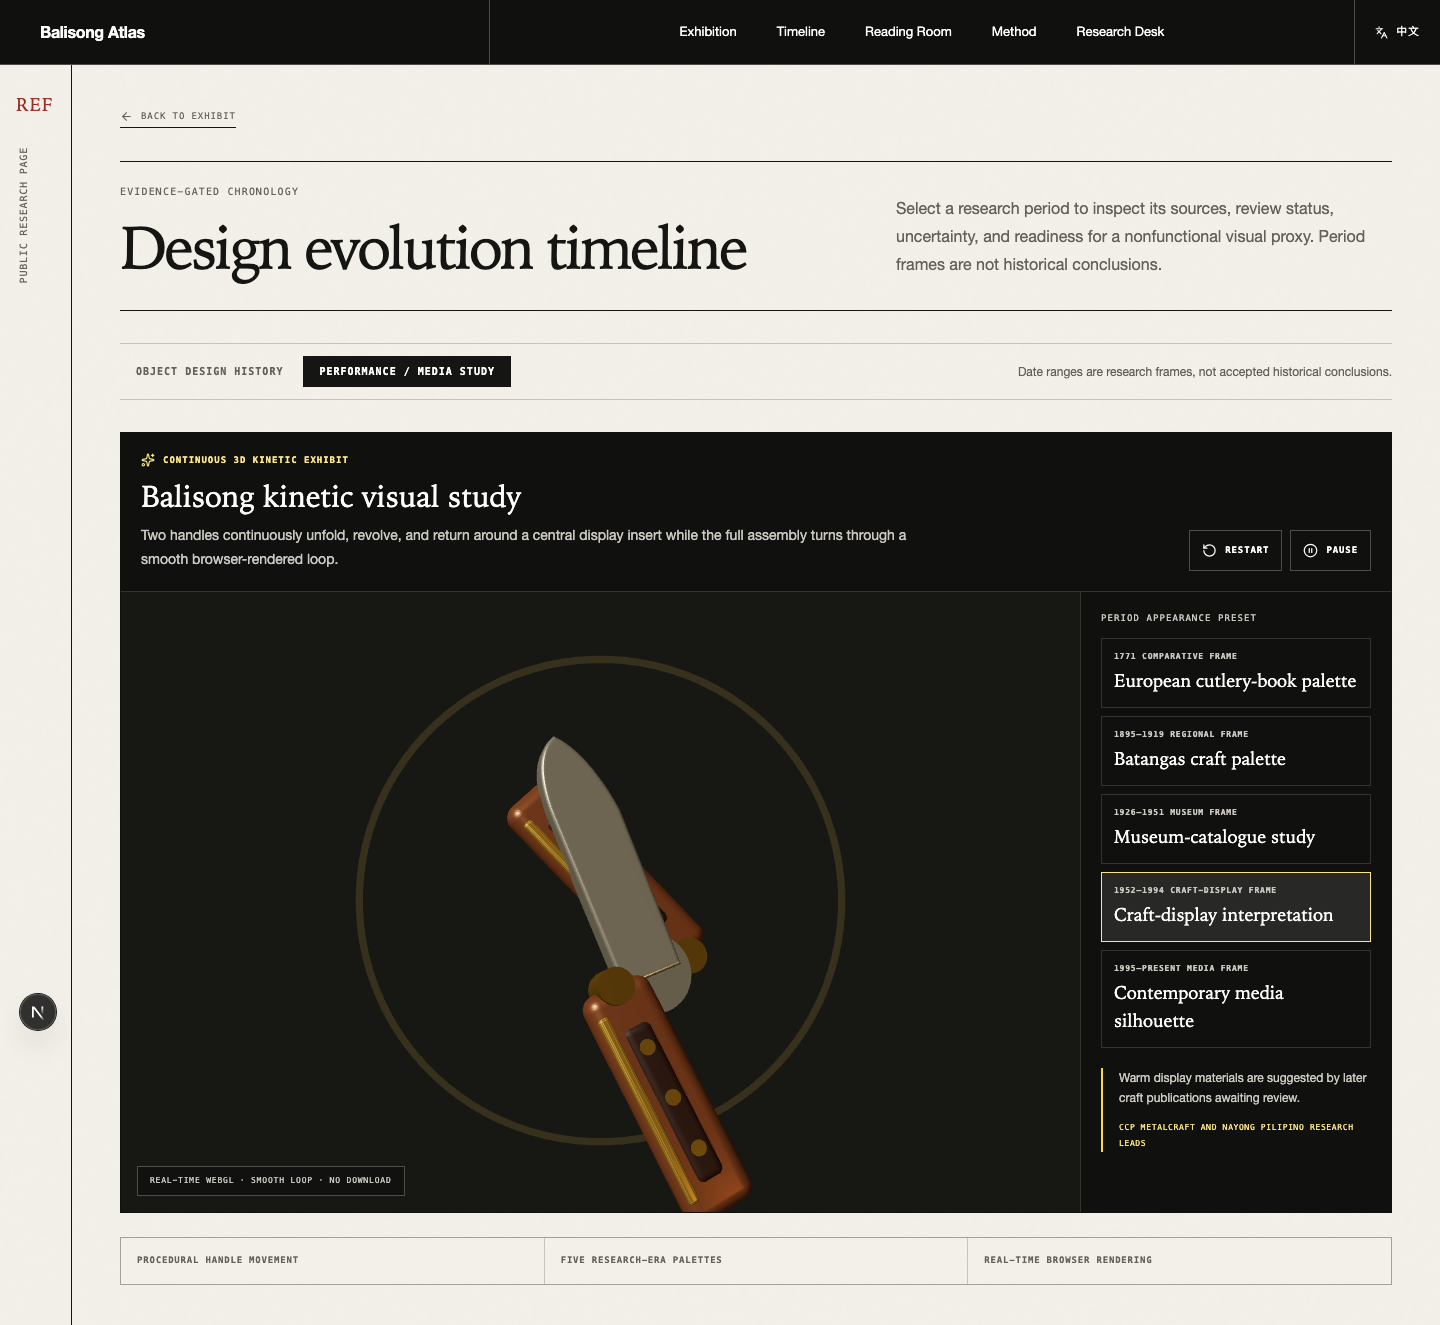
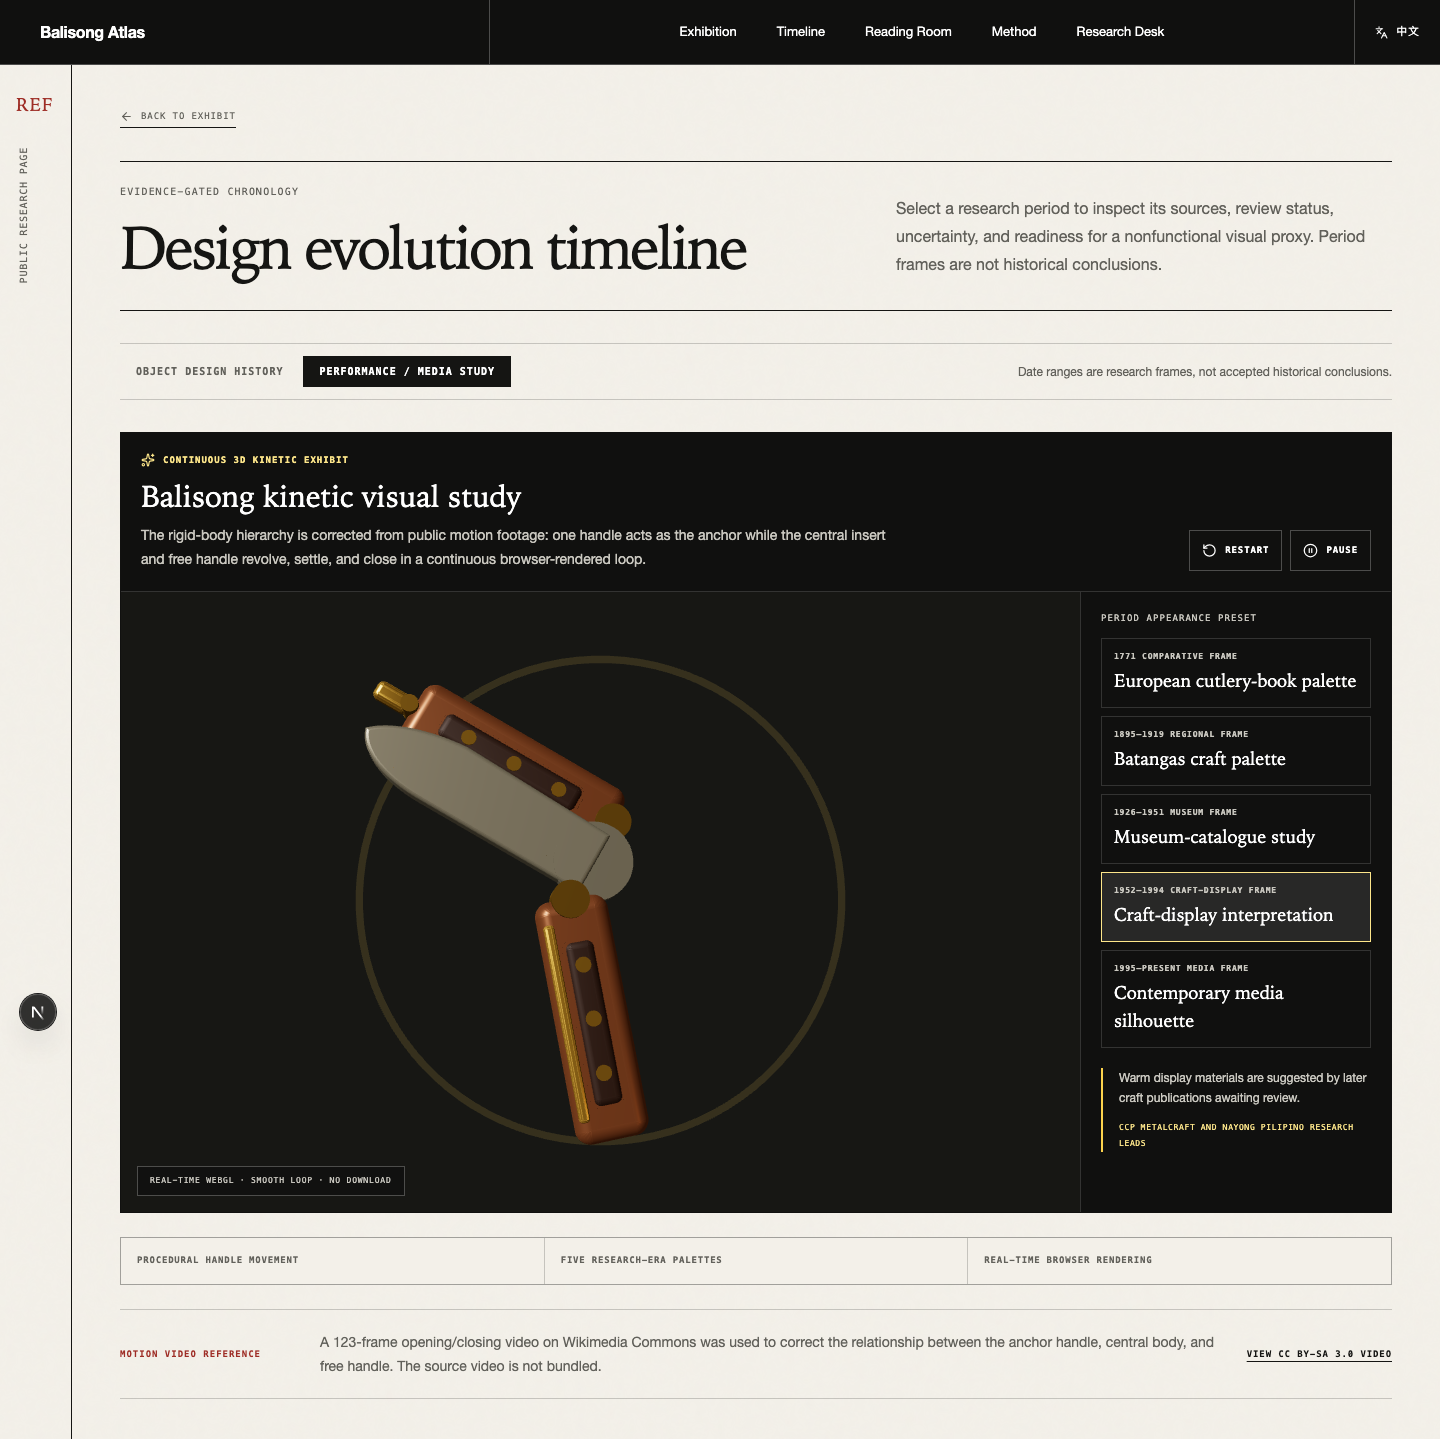
feat(exhibit): refine balisong rig from motion reference

diff --git a/apps/web/features/reconstruction/BalisongKineticShowcase.tsx b/apps/web/features/reconstruction/BalisongKineticShowcase.tsx
@@ -67,17 +67,20 @@ const eraPresets: readonly EraPreset[] = [
 
 type Keyframe = readonly [time: number, value: number];
 
-const leftHandleTrack: readonly Keyframe[] = [
-  [0, Math.PI], [0.09, Math.PI], [0.24, 0], [0.38, 0], [0.5, -Math.PI],
-  [0.63, 0], [0.78, 0], [0.92, Math.PI], [1, Math.PI],
+// Pose-to-pose study derived from the broad motion visible in public opening /
+// closing references: one handle is the anchor, the blade-and-free-handle pair
+// first revolves around it, then the free handle settles beside the anchor.
+const bladeTrack: readonly Keyframe[] = [
+  [0, Math.PI], [0.08, Math.PI], [0.31, -0.08], [0.37, 0],
+  [0.58, 0], [0.82, Math.PI + 0.07], [0.9, Math.PI], [1, Math.PI],
 ];
-const rightHandleTrack: readonly Keyframe[] = [
-  [0, -Math.PI], [0.16, -Math.PI], [0.33, 0], [0.5, 0], [0.62, Math.PI],
-  [0.75, 0], [0.84, 0], [0.96, -Math.PI], [1, -Math.PI],
+const freeHandleTrack: readonly Keyframe[] = [
+  [0, Math.PI], [0.3, Math.PI], [0.44, -0.08], [0.5, 0],
+  [0.61, 0], [0.72, Math.PI + 0.08], [0.78, Math.PI], [1, Math.PI],
 ];
-const carrierXTrack: readonly Keyframe[] = [[0, 0.16], [0.24, -0.22], [0.5, 0.25], [0.76, -0.16], [1, 0.16]];
-const carrierYTrack: readonly Keyframe[] = [[0, -0.14], [0.22, 0.24], [0.48, -0.12], [0.72, 0.2], [1, -0.14]];
-const carrierZTrack: readonly Keyframe[] = [[0, -0.16], [0.25, 0.42], [0.5, -0.4], [0.75, 0.34], [1, -0.16]];
+const carrierXTrack: readonly Keyframe[] = [[0, 0.04], [0.3, -0.12], [0.5, 0.08], [0.8, -0.1], [1, 0.04]];
+const carrierYTrack: readonly Keyframe[] = [[0, -0.12], [0.32, 0.16], [0.52, -0.08], [0.8, 0.12], [1, -0.12]];
+const carrierZTrack: readonly Keyframe[] = [[0, -0.08], [0.3, 0.22], [0.5, 0.04], [0.8, -0.2], [1, -0.08]];
 
 function ease(value: number) {
   return value < 0.5 ? 4 * value * value * value : 1 - Math.pow(-2 * value + 2, 3) / 2;
@@ -95,7 +98,7 @@ function sample(track: readonly Keyframe[], time: number) {
   return track.at(-1)?.[1] ?? 0;
 }
 
-function DecorativeHandle({ preset, side }: { preset: EraPreset; side: -1 | 1 }) {
+function DecorativeHandle({ preset, side, withLatch = false }: { preset: EraPreset; side: -1 | 1; withLatch?: boolean }) {
   const markers = [-0.84, -0.58, -0.32] as const;
   return <group position={[0, -0.58, 0]}>
     <RoundedBox args={[0.36, 1.18, 0.16]} radius={0.075} smoothness={6} castShadow>
@@ -111,6 +114,12 @@ function DecorativeHandle({ preset, side }: { preset: EraPreset; side: -1 | 1 })
     <RoundedBox args={[0.055, 0.95, 0.18]} radius={0.02} position={[side * 0.128, 0, 0.002]}>
       <meshStandardMaterial color={preset.accent} metalness={0.75} roughness={0.26} />
     </RoundedBox>
+    {withLatch && <group position={[0, -0.6, 0.015]}>
+      <mesh rotation={[Math.PI / 2, 0, 0]}><cylinderGeometry args={[0.045, 0.045, 0.18, 24]} /><meshStandardMaterial color={preset.accent} metalness={0.84} roughness={0.22} /></mesh>
+      <RoundedBox args={[0.105, 0.2, 0.075]} radius={0.035} position={[0, -0.1, 0]}>
+        <meshStandardMaterial color={preset.accent} metalness={0.82} roughness={0.24} />
+      </RoundedBox>
+    </group>}
   </group>;
 }
 
@@ -149,14 +158,14 @@ function PivotCap({ position, preset }: { position: [number, number, number]; pr
 
 function KineticAssembly({ preset, playing, restartToken }: { preset: EraPreset; playing: boolean; restartToken: number }) {
   const carrier = useRef<Group>(null);
-  const leftHandle = useRef<Group>(null);
-  const rightHandle = useRef<Group>(null);
+  const bladePivot = useRef<Group>(null);
+  const freeHandle = useRef<Group>(null);
   const glow = useRef<Mesh>(null);
   const elapsed = useRef(0);
   const previousRestart = useRef(restartToken);
 
   useFrame((_, delta) => {
-    if (!carrier.current || !leftHandle.current || !rightHandle.current) return;
+    if (!carrier.current || !bladePivot.current || !freeHandle.current) return;
     if (previousRestart.current !== restartToken) {
       elapsed.current = 0;
       previousRestart.current = restartToken;
@@ -164,13 +173,13 @@ function KineticAssembly({ preset, playing, restartToken }: { preset: EraPreset;
     if (playing) elapsed.current += Math.min(delta, 0.05);
     const time = (elapsed.current % 7.2) / 7.2;
 
-    leftHandle.current.rotation.z = sample(leftHandleTrack, time);
-    rightHandle.current.rotation.z = sample(rightHandleTrack, time);
+    bladePivot.current.rotation.z = sample(bladeTrack, time);
+    freeHandle.current.rotation.z = sample(freeHandleTrack, time);
     carrier.current.rotation.x = sample(carrierXTrack, time);
     carrier.current.rotation.y = sample(carrierYTrack, time);
     carrier.current.rotation.z = sample(carrierZTrack, time);
-    carrier.current.position.x = Math.sin(time * Math.PI * 4) * 0.13;
-    carrier.current.position.y = Math.sin(time * Math.PI * 2) * 0.08;
+    carrier.current.position.x = Math.sin(time * Math.PI * 2) * 0.07;
+    carrier.current.position.y = Math.sin(time * Math.PI * 2) * 0.04;
     if (glow.current) glow.current.rotation.z = time * Math.PI * 2;
   });
 
@@ -180,15 +189,17 @@ function KineticAssembly({ preset, playing, restartToken }: { preset: EraPreset;
       <meshBasicMaterial color={preset.accent} transparent opacity={0.16} />
     </mesh>
     <group ref={carrier} position={[0, 0.04, 0]}>
-      <CentralDisplayInsert preset={preset} />
-      <group ref={leftHandle} position={[-0.24, -0.47, 0.105]}>
+      <group position={[-0.24, 0, 0.105]}>
         <DecorativeHandle preset={preset} side={-1} />
       </group>
-      <group ref={rightHandle} position={[0.24, -0.47, -0.105]}>
-        <DecorativeHandle preset={preset} side={1} />
+      <group ref={bladePivot} position={[-0.24, 0, 0]}>
+        <group position={[0.24, 0.47, 0]}><CentralDisplayInsert preset={preset} /></group>
+        <group ref={freeHandle} position={[0.48, 0, -0.105]}>
+          <DecorativeHandle preset={preset} side={1} withLatch />
+        </group>
+        <PivotCap position={[0.48, 0, -0.105]} preset={preset} />
       </group>
-      <PivotCap position={[-0.24, -0.47, 0.105]} preset={preset} />
-      <PivotCap position={[0.24, -0.47, -0.105]} preset={preset} />
+      <PivotCap position={[-0.24, 0, 0.105]} preset={preset} />
     </group>
   </group>;
 }
@@ -207,8 +218,8 @@ export function BalisongKineticShowcase() {
           <div className="flex items-center gap-2 font-mono text-[9px] font-bold uppercase tracking-[.11em] text-amber-200"><Sparkles size={14} aria-hidden="true" />{locale === "zh" ? "3D 连续动态展览" : "Continuous 3D kinetic exhibit"}</div>
           <h2 className="mt-3 font-display text-3xl">{locale === "zh" ? "蝴蝶刀动态视觉研究" : "Balisong kinetic visual study"}</h2>
           <p className="mt-2 max-w-3xl text-sm leading-6 text-fog">{locale === "zh"
-            ? "双柄围绕中央展示插片进行连续展开、回转与收束，场景整体同步翻转，形成流畅循环的浏览器 3D 动画。"
-            : "Two handles continuously unfold, revolve, and return around a central display insert while the full assembly turns through a smooth browser-rendered loop."}</p>
+            ? "重新按照公开视频校正刚体层级：一个柄作为锚点，中央插片与另一柄依次回转、合拢，再反向闭合，形成连续的浏览器 3D 动画。"
+            : "The rigid-body hierarchy is corrected from public motion footage: one handle acts as the anchor while the central insert and free handle revolve, settle, and close in a continuous browser-rendered loop."}</p>
         </div>
         <div className="flex gap-2">
           <button type="button" onClick={() => setRestartToken((value) => value + 1)} className="focus-ring inline-flex items-center gap-2 border border-white/25 px-3 py-3 font-mono text-[9px] font-bold uppercase tracking-[.1em] hover:bg-white/10"><RotateCcw size={15} aria-hidden="true" />{locale === "zh" ? "重新播放" : "Restart"}</button>
@@ -253,6 +264,13 @@ export function BalisongKineticShowcase() {
         { en: "Five research-era palettes", zh: "五种研究时期外观" },
         { en: "Real-time browser rendering", zh: "浏览器实时渲染" },
       ].map((item) => <div key={item.en} className="bg-paper px-4 py-4 font-mono text-[9px] font-bold uppercase tracking-[.09em] text-quiet">{item[locale]}</div>)}
+    </section>
+    <section className="grid gap-5 border-y border-ink/20 py-5 text-sm leading-6 md:grid-cols-[180px_1fr_auto] md:items-center">
+      <p className="font-mono text-[9px] font-bold uppercase tracking-[.11em] text-ochre">{locale === "zh" ? "运动视频参考" : "Motion video reference"}</p>
+      <p className="text-quiet">{locale === "zh"
+        ? "使用 Wikimedia Commons 的 123 帧开放／闭合视频校正锚定柄、中央部分与自由柄的先后关系；原视频没有打包进项目。"
+        : "A 123-frame opening/closing video on Wikimedia Commons was used to correct the relationship between the anchor handle, central body, and free handle. The source video is not bundled."}</p>
+      <a href="https://commons.wikimedia.org/wiki/File:Opening_and_closing_a_Balisong_aka_Butterfly_Knife.gif" target="_blank" rel="noreferrer" className="focus-ring font-mono text-[9px] font-bold uppercase tracking-[.1em] underline underline-offset-4">{locale === "zh" ? "查看 CC BY-SA 3.0 视频" : "View CC BY-SA 3.0 video"}</a>
     </section>
   </div>;
 }

diff --git a/apps/web/tests/public-exhibit.spec.ts b/apps/web/tests/public-exhibit.spec.ts
@@ -114,4 +114,5 @@ test("evidence-era timeline locks historical proxies and isolates the fictional 
   await expect(page.getByRole("button", { name: /download/i })).toHaveCount(0);
   await expect(page.getByRole("button", { name: /measure/i })).toHaveCount(0);
   await expect(page.getByRole("button", { name: /export/i })).toHaveCount(0);
+  await expect(page.getByRole("link", { name: "View CC BY-SA 3.0 video" })).toHaveAttribute("href", /commons\.wikimedia\.org/);
 });

diff --git a/docs/RIGHTS_AND_ATTRIBUTION.md b/docs/RIGHTS_AND_ATTRIBUTION.md
@@ -12,3 +12,11 @@ Rights are recorded per source and asset with status, URI, license label, attrib
 IIIF imports preserve provider, `requiredStatement`, and rights. If rights are unclear, cache metadata and a permissible low-resolution thumbnail only; never assume high-resolution caching rights.
 
 Code is MIT. Archive data, images, exhibition writing, and third-party metadata retain separate licenses and attribution.
+
+## Motion reference
+
+The browser kinetic exhibit was visually checked against DJLO,
+“[Opening and closing a Balisong aka Butterfly Knife](https://commons.wikimedia.org/wiki/File:Opening_and_closing_a_Balisong_aka_Butterfly_Knife.gif),”
+26 July 2011, Wikimedia Commons, CC BY-SA 3.0. The 123-frame source was used as
+a pose-order reference only. It is linked from the exhibit but is not copied or
+redistributed in this repository and is not treated as historical-form evidence.

diff --git a/docs/SAFE_3D_POLICY.md b/docs/SAFE_3D_POLICY.md
@@ -33,4 +33,11 @@ derived from broad source framing, not exact replicas. The interface provides
 play, pause, restart, and palette selection only; it omits download,
 measurement, frame stepping, export, and editable joint parameters.
 
+The runtime hierarchy uses one anchored handle, a central body revolving from
+that anchor, and a free handle revolving from the second pivot. The pose order
+was visually checked against
+[DJLO's CC BY-SA 3.0 Wikimedia Commons opening/closing reference](https://commons.wikimedia.org/wiki/File:Opening_and_closing_a_Balisong_aka_Butterfly_Knife.gif).
+Only the attribution URL is stored; the GIF is not bundled or treated as
+historical-form evidence.
+
 Release uses short-lived or controlled asset access. A browser-displayed asset cannot receive absolute DRM; no-download UI is an access/control limitation, not a claim that saving is impossible.

diff --git a/README.md b/README.md
@@ -214,6 +214,10 @@ The public viewer offers manual whole-scene rotation, a slow whole-scene turntab
 The kinetic study is a browser-only procedural exhibit and is not emitted by
 `SafeProxyBackend`. It has no download, measurement, export, frame-step, or
 joint-editing interface and does not alter the joined-GLB reconstruction policy.
+Its anchor/blade/free-handle hierarchy was visually checked against
+[DJLO's CC BY-SA 3.0 Wikimedia Commons opening/closing reference](https://commons.wikimedia.org/wiki/File:Opening_and_closing_a_Balisong_aka_Butterfly_Knife.gif);
+the source file is linked and attributed in the interface but is not bundled in
+the repository.
 
 Browser assets cannot receive absolute DRM. “No download button” is an interface/access-control decision, not a promise that a displayed asset can never be saved.
 
